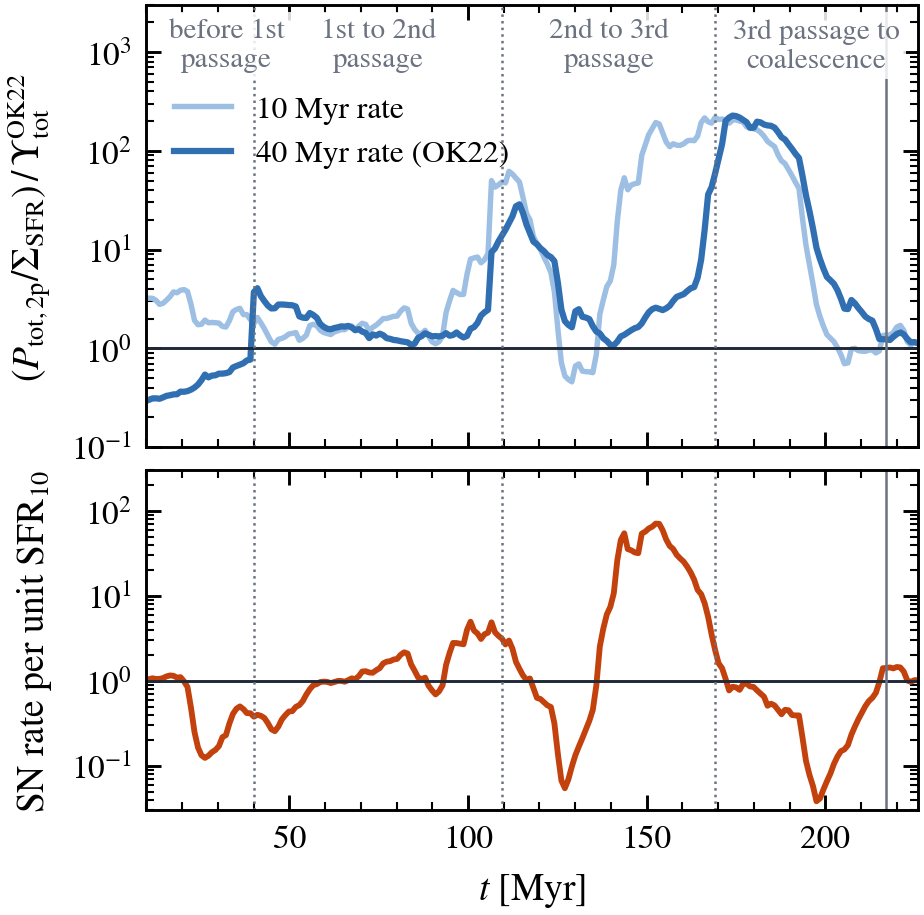
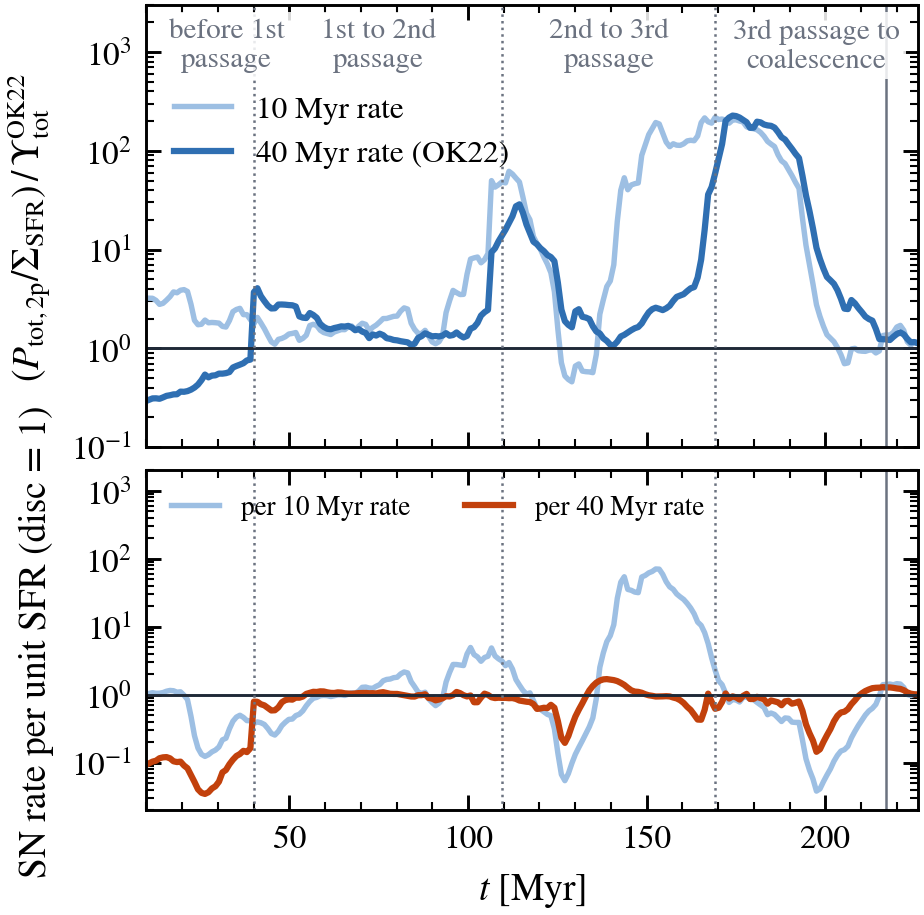
Yield sources: add the supernova rate per unit 40 Myr star formation rate; caption

diff --git a/README.md b/README.md
@@ -344,10 +344,14 @@ passage is interpretation.
 The same as a figure. Top: x: time; y: the ratio of $\sum_c P_{{\rm tot},c}/\sum_c\Sigma_{{\rm SFR},c}$ over the clean layer
 columns to $4.81\times10^3\ \Upsilon_{\rm tot}(\bar P)$, with the 10 Myr rate (light) and the 40 Myr rate (dark). Bottom:
 the supernova rate of the same columns (supernovae of the last 10 Myr from the stellar catalogue, per column) divided
-by their 10 Myr star formation rate, normalised to its median between 40 and 100 Myr. Result: from 140 to 170 Myr the
-10 Myr ratio is high, the 40 Myr ratio is 1.5 to 7, and the supernova rate per unit star formation is 10 to 70 times
-its disc value: delayed feedback. From 170 to 195 Myr both ratios are 100 to 200 and the supernova rate is at its disc
-value: pressure without feedback. The 40 Myr curve before 40 Myr includes the isothermal initial state and is not used.
+by their 10 Myr rate (light) and by their 40 Myr rate (dark), each normalised to its own median between 40 and 100 Myr.
+Result: the supernova rate per unit 40 Myr star formation rate is flat at 1 within a factor of 2 for the whole run, as
+it must be if the supernovae come from the stars of the last 40 Myr, which is what that window is for. Per unit 10 Myr
+rate it reaches 70 between 140 and 170 Myr, the interval in which the layer is pressurised by the supernovae of the
+125 to 135 Myr burst after its star formation has stopped; there the 40 Myr yield ratio is 1.5 to 7, i.e. ordinary
+feedback regulation seen through the right window. From 167 to 195 Myr the supernova budget is normal by both measures
+and the yield ratio is 100 to 200 with either rate: the pressure of that interval is not supernova-driven at all. The
+40 Myr curves before 40 Myr include the isothermal initial state and are not used.
 
 ![yield sources](figs/yield_sources.png)
 
